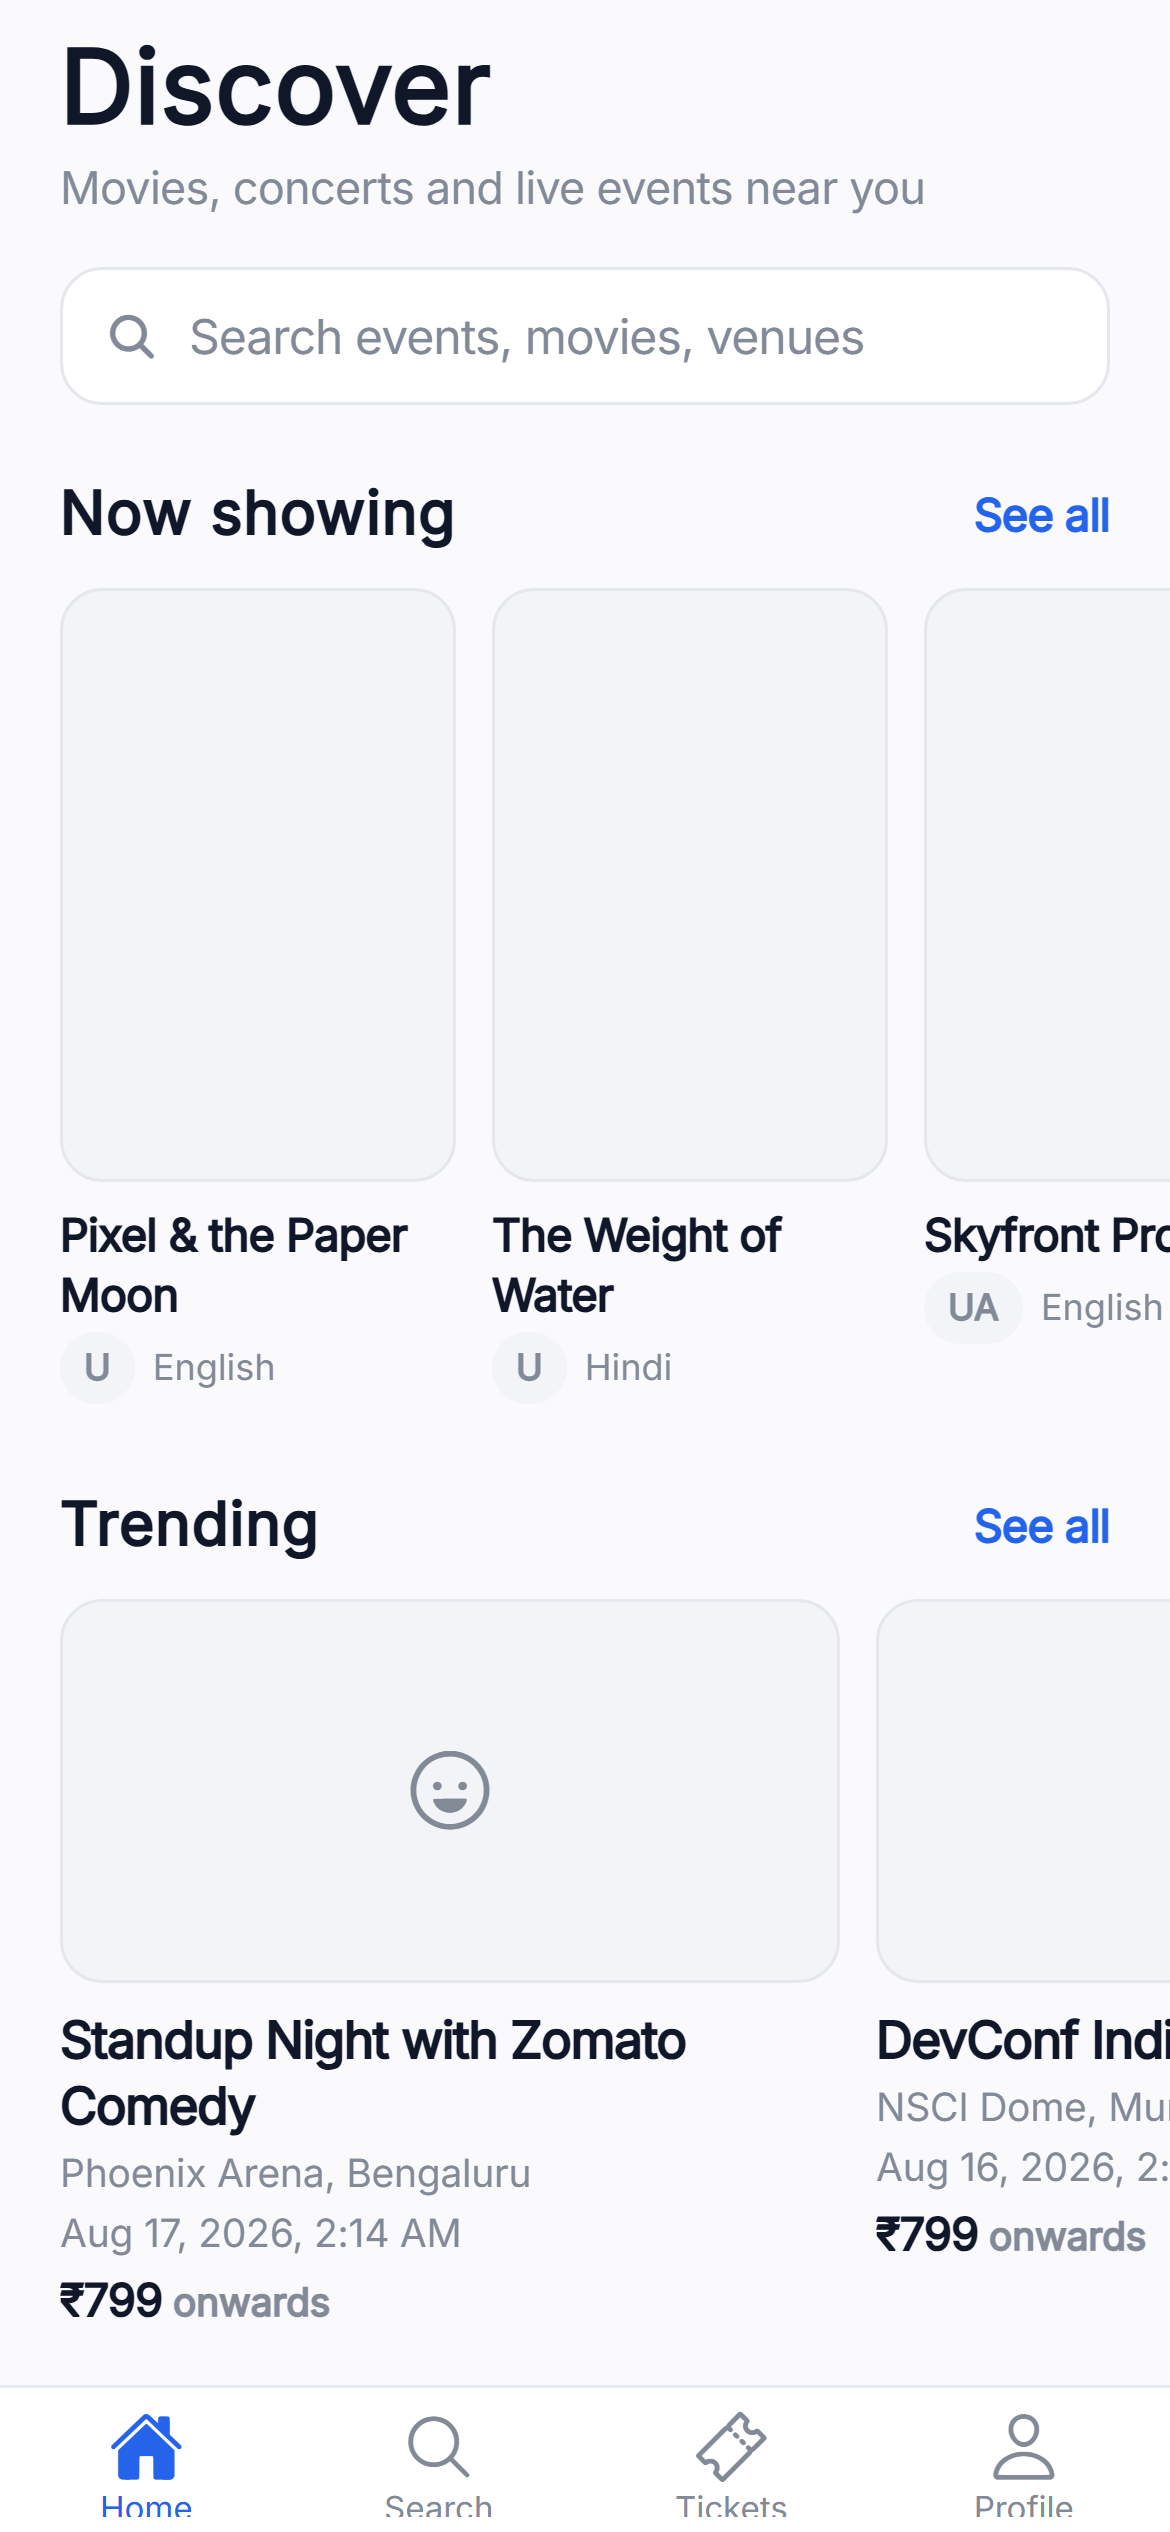
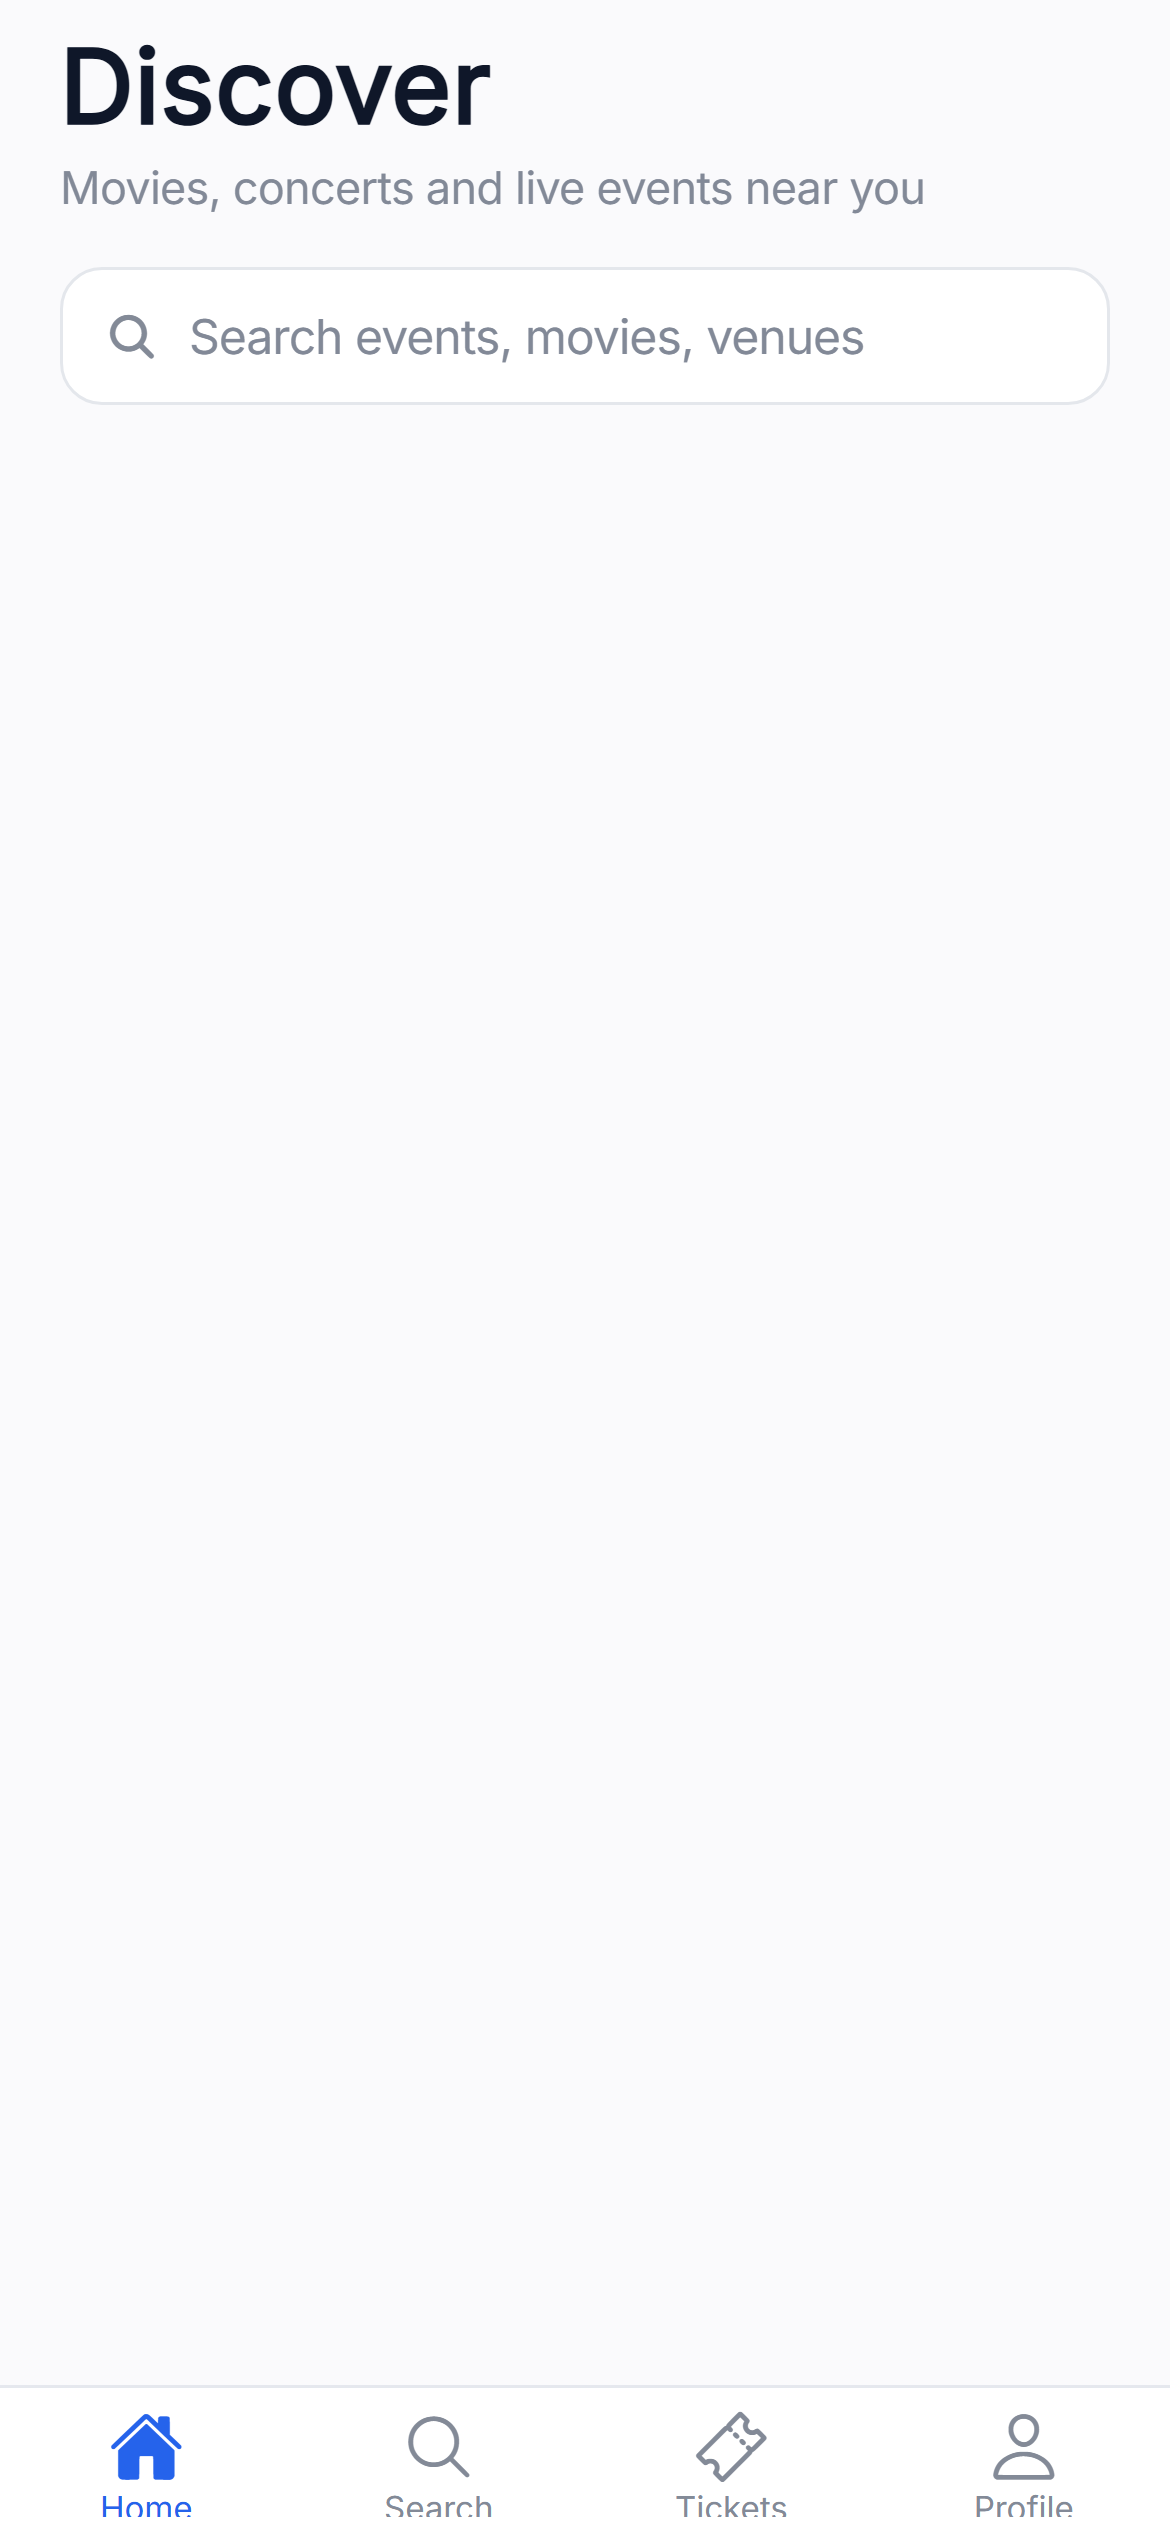
chore(qa): move QA onto the custom domains now that DNS and TLS are live
All three outstanding CNAMEs are in place. Verified today: DNS resolves to the exact
target Railway asked for, certificateStatus is VALID on all four custom domains, the API
answers /api/health and /api/ready with 200 through api-qa.eticketsgo.com, and CORS
returns the right allow-origin for all three QA web origins while still refusing an
unknown one. That is the full four-point checklist ENVIRONMENTS.md said had to pass
before repointing anything, so it has been repointed.

WHY THIS MATTERED MORE THAN IT LOOKS. Everything was baked against
api-qa-f580.up.railway.app, and that generated hostname is NOT stable across service
re-creation — it has already changed once (api-qa-f23c → api-qa-f580) and every consumer
pointed at the old one broke, because these values are inlined at BUILD time so a change
is a rebuild rather than a restart.

For a native app that is much worse: an APK cannot be repointed at all without shipping a
new binary. The mobile `qa` EAS profile now uses the custom domain, and it does so BEFORE
the first build has been produced — doing this after would have meant a dead APK the next
time Railway regenerated the host.

Also fixed two variables that were still advertising the wrong site. NEXT_PUBLIC_SITE_URL
was customer-web-qa.up.railway.app, which is what robots.txt, sitemap.xml and every
canonical tag published for the whole site; and NEXT_PUBLIC_ORGANIZER_URL was the
generated organizer host, which is where the "start selling" button sent people.
[…]

diff --git a/apps/customer-mobile/docs/ENVIRONMENTS.md b/apps/customer-mobile/docs/ENVIRONMENTS.md
@@ -27,44 +27,55 @@ naively, `env.webHost` becomes an object and `webHost.toLowerCase()` throws.
 In a `production` build, `env.ts` throws rather than start with a missing or localhost
 API URL. A prod build pointing at a dev API is a release defect, not a fallback.
 
-## Live QA (verified 2026-08-04)
+## Live QA (verified 2026-08-06)
 
-| Service         | Host                                     | State                                 |
-| --------------- | ---------------------------------------- | ------------------------------------- |
-| API             | `https://api-qa-f580.up.railway.app/api` | **Working** — use this                |
-| Customer web    | `https://qa.eticketsgo.com`              | Live, cert valid                      |
-| API (preferred) | `https://api-qa.eticketsgo.com`          | **NXDOMAIN** — CNAME not at registrar |
-| Organizer web   | `https://organizer-qa.eticketsgo.com`    | NXDOMAIN                              |
-| Admin web       | `https://admin-qa.eticketsgo.com`        | NXDOMAIN                              |
+Every service is reachable on its eticketsgo.com name, with a Railway-issued certificate.
 
-QA posture: `PAYMENT_PROVIDER_NAME=mock`, all money automation off, Swagger enabled,
-app-sleeping on (so the first request after idle pays a cold start).
+| Service       | Host                                  | State                             |
+| ------------- | ------------------------------------- | --------------------------------- |
+| API           | `https://api-qa.eticketsgo.com/api`   | **Live** — this is the one to use |
+| Customer web  | `https://qa.eticketsgo.com`           | Live                              |
+| Organizer web | `https://organizer-qa.eticketsgo.com` | Live                              |
+| Admin web     | `https://admin-qa.eticketsgo.com`     | Live                              |
 
-### Switching to `api-qa.eticketsgo.com`
+All four: DNS matches the required CNAME, `certificateStatus: VALID`, and the API answers
+`/api/health` and `/api/ready` with 200 and CORS for all three web origins.
 
-Do **not** switch until all four verify. The Railway hostname works today; a bundle
-pointed at a name that does not resolve is bricked until DNS propagates.
+### Do not go back to the generated hostname
+
+`api-qa-f580.up.railway.app` still works, and everything pointed at it until 2026-08-06,
+but it is **not stable across service re-creation**. It has already changed once —
+`api-qa-f23c` → `api-qa-f580` — and because these values are inlined at BUILD time,
+every consumer baked against the old one broke and needed a rebuild rather than a restart.
+
+That is worse for a native app than for the web: an APK cannot be repointed at all
+without shipping a new binary. The mobile `qa` EAS profile therefore uses the custom
+domain, and did so before the first build was ever produced.
+
+Override with `EXPO_PUBLIC_API_URL` (mobile) or `QA_API_HOST` (deploy script) if a
+hostname ever needs to change again — neither requires a code edit.
+
+### The checklist that was used before switching
+
+Kept because the same four conditions apply to UAT and production when their domains are
+provisioned. Do not repoint a build until all four pass.
 
 ```bash
-# 1. DNS resolves
-nslookup api-qa.eticketsgo.com          # must not say "Non-existent domain"
+# 1. DNS resolves, and to the CNAME Railway asked for
+nslookup api-qa.eticketsgo.com
 
-# 2. TLS issued (Railway needs the CNAME present first)
-curl -sS -o /dev/null -w '%{http_code} %{ssl_verify_result}\n' \
+# 2. TLS verifies (0 = valid chain)
+curl -sS -o /dev/null -w '%{http_code} tls=%{ssl_verify_result}\n' \
   https://api-qa.eticketsgo.com/api/health
 
-# 3. Health responds
-curl -sS https://api-qa.eticketsgo.com/api/health     # {"status":"ok",...}
+# 3. The app is actually up behind it
+curl -sS https://api-qa.eticketsgo.com/api/ready
 
-# 4. CORS allows the customer origin
+# 4. CORS answers the browser origin that will call it
 curl -sS -X OPTIONS https://api-qa.eticketsgo.com/api/public/discovery \
   -H 'Origin: https://qa.eticketsgo.com' \
   -H 'Access-Control-Request-Method: GET' -D - -o /dev/null | grep -i allow-origin
 ```
-
-The CNAME still missing at the registrar: `api-qa` → `ktndx6oh.up.railway.app`.
-
-Then set `EXPO_PUBLIC_API_URL` in `eas.json`'s `qa` profile and rebuild. No code change.
 
 ## EAS profiles
 

diff --git a/apps/customer-mobile/docs/OWNER-HANDOFF.md b/apps/customer-mobile/docs/OWNER-HANDOFF.md
@@ -7,7 +7,7 @@ Run from `apps/customer-mobile`.
 
 ## Before you start
 
-The QA build points at `https://api-qa-f580.up.railway.app/api`, and **the API changes
+The QA build points at `https://api-qa.eticketsgo.com/api`, and **the API changes
 in this branch are not deployed there yet**. Until PR #38 is merged and QA redeploys,
 an installed APK will 404 on:
 
@@ -22,7 +22,7 @@ Confirm the deploy landed:
 
 ```bash
 curl -s -o /dev/null -w '%{http_code}\n' \
-  https://api-qa-f580.up.railway.app/api/public/movies/skyfront-protocol/shows
+  https://api-qa.eticketsgo.com/api/public/movies/skyfront-protocol/shows
 # 200 = deployed. 404 = not yet.
 ```
 

diff --git a/apps/customer-mobile/docs/API-INTEGRATION.md b/apps/customer-mobile/docs/API-INTEGRATION.md
@@ -5,7 +5,7 @@ logic that the server does not already own.
 
 ## Every endpoint the app calls
 
-Verified against QA (`api-qa-f580.up.railway.app`) on 2026-08-04.
+Verified against QA (`api-qa.eticketsgo.com`) on 2026-08-04.
 
 | Method | Path                             | Auth   | Used by                               |
 | ------ | -------------------------------- | ------ | ------------------------------------- |
